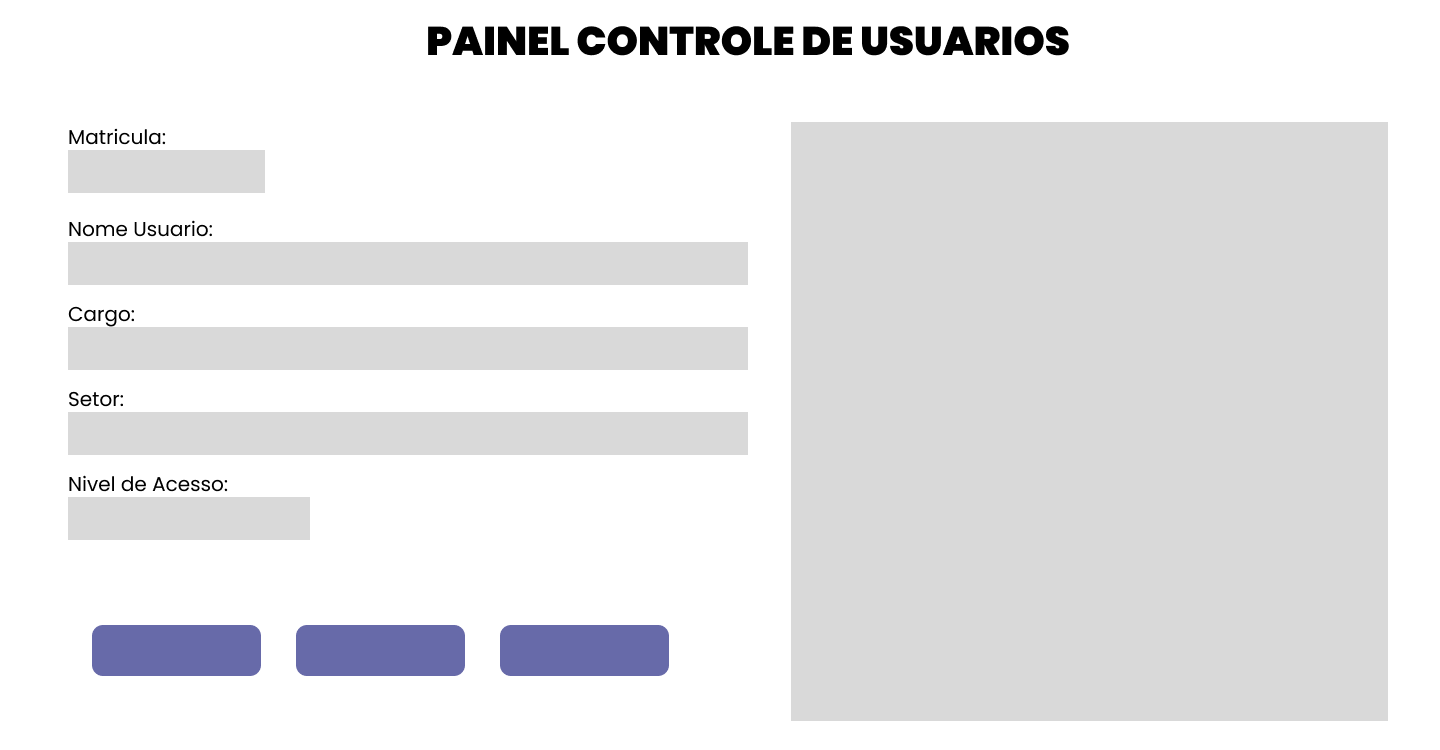
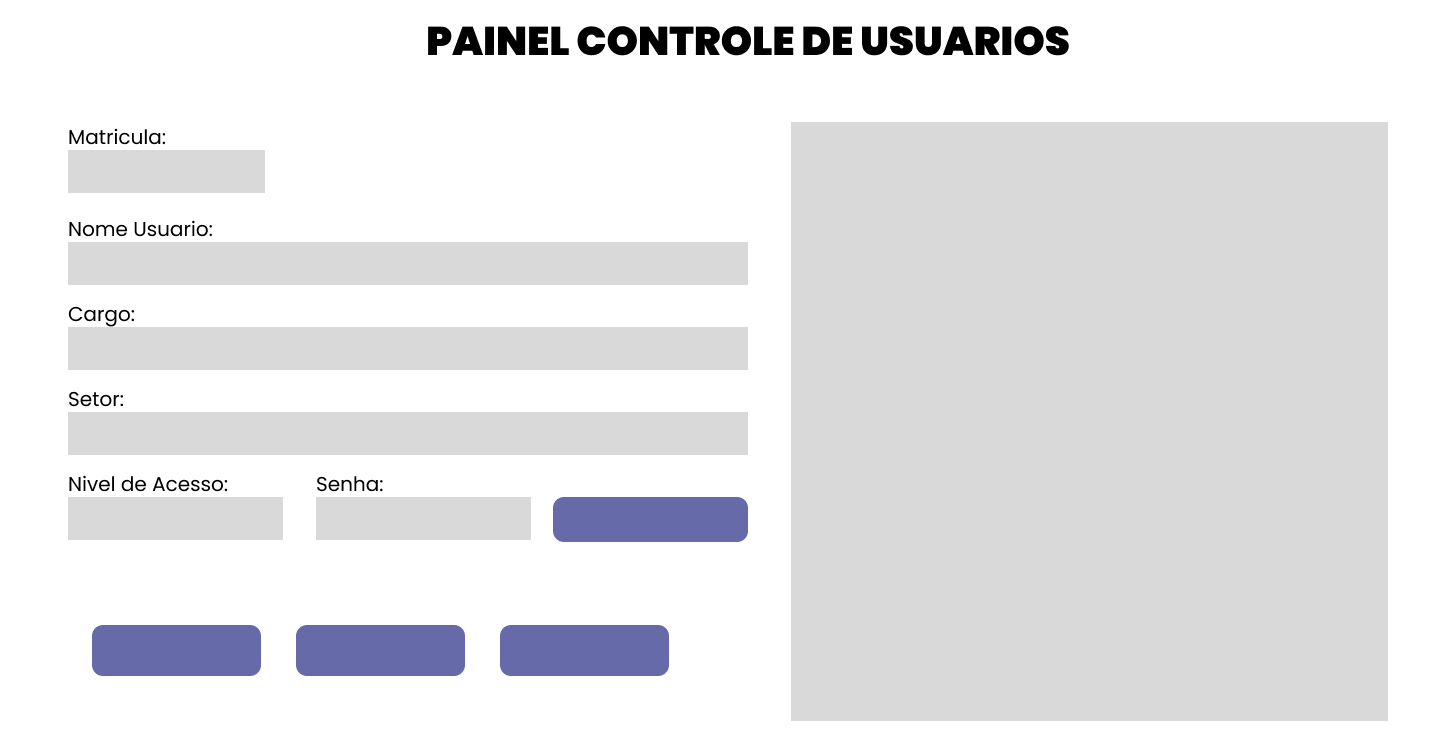
Atualização de data base

Changed region(s): [[0.1875, 0.6133, 0.5312, 0.736]]

diff --git a/controle_de_validade/controle_de_validade/dataBase.py b/controle_de_validade/controle_de_validade/dataBase.py
@@ -5,6 +5,8 @@ config = [
 
 class DataBase:
     def __init__(self, tipo: int) -> None:
+        self.dbGlobal =r'C:\Users\2103896595\Desktop\outros\banco validade\dataBaseGlobal.db'
+        self.dblocal =r'C:\Users\2103896595\Desktop\outros\banco validade\dataBaseLocal.db'
         self.tipo = tipo
         self.connect_data_base(self.tipo)
 
@@ -12,10 +14,10 @@ class DataBase:
         try:
 
             if tipo == 1:
-                self.conn = sq.connect('../data/dataBaseLocal.db')
+                self.conn = sq.connect(self.dblocal)
                 self.cursor = self.conn.cursor()
             elif tipo == 2:
-                self.conn = sq.connect('../data/dataBaseGlobal.db')
+                self.conn = sq.connect(self.dbGlobal)
                 self.cursor = self.conn.cursor()
             else:
                 pass
@@ -83,7 +85,8 @@ class DataBase:
                             usuario VARCHAR(150),
                             cargo VARCHAR(50),
                             setor VARCHAR(50),
-                            acesso INTEGER
+                            acesso INTEGER,
+                            senha VARCHAR(50)
                               
                             )""")
 

diff --git a/controle_de_validade/controle_de_validade/tela_principal.py b/controle_de_validade/controle_de_validade/tela_principal.py
@@ -708,12 +708,17 @@ class TelaPrincipal:
         self.style_treeview()
 
     def componentes_produtos(self):
+        self.destroi_widget()
+
         bd =DataBase(2)
-        sql="SELECT categoria FROM tb_categoria"
+        sql="SELECT categoria FROM tb_categoria ORDER BY categoria ASC"
         lista = bd.selectAll(sql)
-        self.imagem_produtos = PhotoImage(file=r'..\image\produtos.png')
+        nova_lista = [item[0] for item in lista]
+        
 
         self.componentes_menu_bar()
+
+        self.imagem_produtos = PhotoImage(file=r'..\image\produtos.png')
         lb_image = Label(self.root,image=self.imagem_produtos)
         lb_image.place(x=0, y=0)
 
@@ -732,7 +737,7 @@ class TelaPrincipal:
         
         self.cbx_cd_categoria_produto = ttk.Combobox(self.root,
                                                      font= FONT_INIT,
-                                                     values=lista
+                                                     values=nova_lista
                                                      
                                                             
         )
